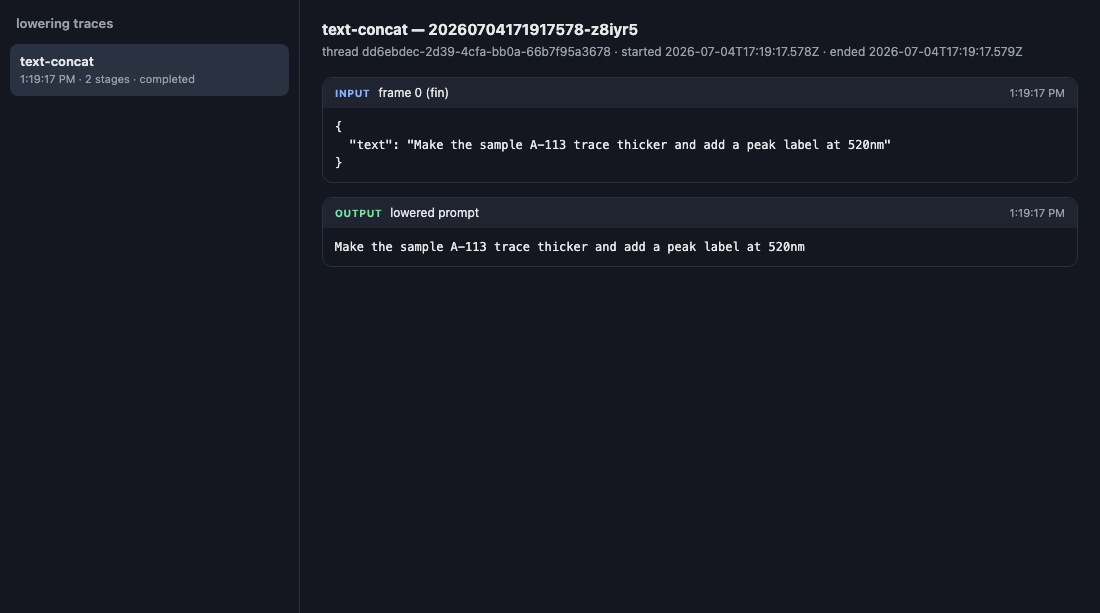
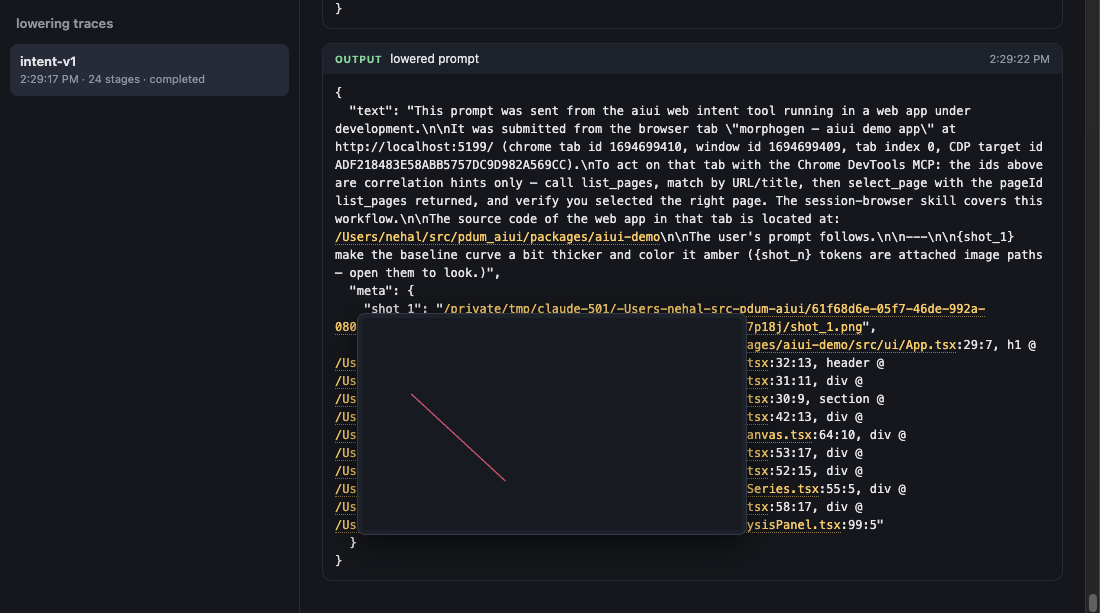
staging

diff --git a/packages/aiui-dev-overlay/handoff/multimodal-intent-graduation.md b/packages/aiui-dev-overlay/handoff/multimodal-intent-graduation.md
@@ -8,11 +8,16 @@
 > (embedded by the lab and the DevTools extension); **P5** the workbench slimmed into the lab
 > (inspector → shared debug-ui; keeps scenery, settings drawer over `IntentPipelineConfig`,
 > dev-proxy `openai` impls, `bench/`, `fixtures/`). Companion work (launcher OpenAI preflight +
-> micro-e2e tier) landed alongside. **P6** docs drafted (`docs/guide/intent-overlay.md` exists;
-> lab docs role-changed) — **screenshots still pending.** Open items: **T1–T7 dogfooding** (the
-> design verdict — see `workbench/docs/open-questions.md`); the advanced-config raw-JSON panel
-> (deferred); per-tool dynamic MCP registration (prior handoff); the CDP-capture experiment
-> (dropped for now in favour of `getDisplayMedia`). This document is the plan of record. From the
+> micro-e2e tier) landed alongside. **P6** complete: `docs/guide/intent-overlay.md`
+> (sidebar-wired), web-intent-tool/getting-started/config trued to the landed widget, lab docs
+> role-changed, and both screenshots retaken from live runs (`intent-tool.png` — the multimodal
+> widget mid-turn; `lowering-debugger.png` — a real intent-v1 trace with the Option-C meta and
+> path hover-peek). The advanced-config raw-JSON panel also shipped (gear in the widget), and a
+> live-found regression (mock dictation gated on a mic permission prompt) was fixed with a
+> regression test. Open items: **T1–T7 dogfooding** (the design verdict — see
+> `workbench/docs/open-questions.md`); a curated visible-toggles row (deliberately waiting on
+> that dogfooding); per-tool dynamic MCP registration (prior handoff); the CDP-capture
+> experiment (dropped for now in favour of `getDisplayMedia`). This document is the plan of record. From the
 > aiui-main session.
 
 ## The goal, in one paragraph

diff --git a/docs/guide/intent-overlay.md b/docs/guide/intent-overlay.md
@@ -12,7 +12,6 @@ knobs. The [Web Intent Tool](./web-intent-tool) page is the design (how the thre
 collection, lowering, debugging — fit together and how a modality plugs in); this page assumes
 you already have the tool mounted (see [Getting Started](./getting-started)) and want to drive it.
 
-<!-- TODO(P6): retake /intent-tool.png to show the multimodal widget — an ink stroke + the streaming transcript preview + a shot thumbnail — over the demo app. Capture via the session browser. -->
 ![The intent overlay over a demo app](/intent-tool.png)
 
 ## Arming: the overlay stays out of your way until you call it
@@ -144,7 +143,6 @@ tab and source context that every intent submission carries (see
 is prefixed just as it is for text. Every stage of that lowering is recorded as a **trace** you
 can inspect in the debugger:
 
-<!-- TODO(P6): retake /lowering-debugger.png to show a multimodal trace — the merged event stream, the composed Option-C body with {shot_N} tokens, and the meta path hover-preview. Capture via the session browser. -->
 ![The lowering debugger showing a multimodal trace](/lowering-debugger.png)
 
 ## Configuring the pipeline